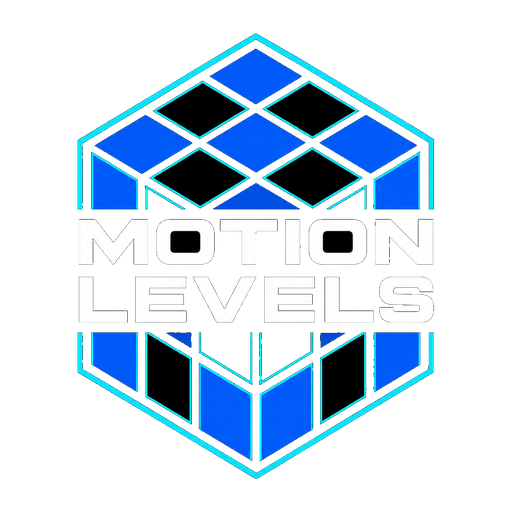
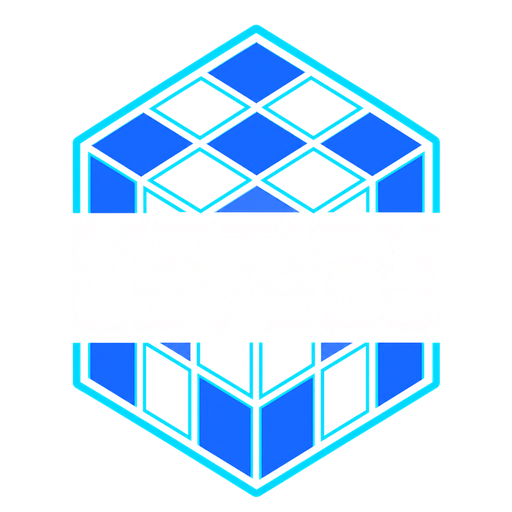
Update Motion Levels branding across platform apps

Changed region(s): [[0.125, 0.0312, 0.875, 0.5], [0.125, 0.4688, 0.875, 0.9688], [0.125, 0.4688, 0.1875, 0.625]]

diff --git a/apps/player-display/src/styles.css b/apps/player-display/src/styles.css
@@ -144,7 +144,7 @@ body {
 .screensaver-logo {
   width: min(68vw, 82vh, 900px);
   aspect-ratio: 1;
-  background: url("/motion-levels-icon.png?v=20260611") center / contain no-repeat;
+  background: url("/motion-levels-icon.png?v=20260713") center / contain no-repeat;
   filter:
     drop-shadow(0 28px 38px rgba(0, 0, 0, 0.52))
     drop-shadow(0 0 46px rgba(54, 217, 255, 0.34));
@@ -199,7 +199,7 @@ body {
   width: clamp(38px, 3.2vw, 72px);
   height: clamp(38px, 3.2vw, 72px);
   flex: 0 0 auto;
-  background: url("/motion-levels-icon.png?v=20260611") center / contain no-repeat;
+  background: url("/motion-levels-icon.png?v=20260713") center / contain no-repeat;
   filter: drop-shadow(0 12px 18px rgba(0, 0, 0, 0.45)) drop-shadow(0 0 18px rgba(54, 217, 255, 0.25));
 }
 
@@ -690,7 +690,7 @@ body {
   width: 44px;
   height: 44px;
   flex: 0 0 auto;
-  background: url("/motion-levels-icon.png?v=20260611") center / contain no-repeat;
+  background: url("/motion-levels-icon.png?v=20260713") center / contain no-repeat;
   filter:
     drop-shadow(0 8px 14px rgba(0, 0, 0, 0.48))
     drop-shadow(0 0 14px rgba(54, 217, 255, 0.34));

diff --git a/apps/player-menu/src/styles.css b/apps/player-menu/src/styles.css
@@ -197,7 +197,7 @@ body {
   height: 96px;
   padding: 0;
   border: 0;
-  background: url("/motion-levels-icon.png?v=20260611") center / contain no-repeat;
+  background: url("/motion-levels-icon.png?v=20260713") center / contain no-repeat;
   filter: drop-shadow(0 18px 28px rgba(0, 0, 0, 0.48)) drop-shadow(0 0 24px rgba(54, 217, 255, 0.24));
   cursor: pointer;
 }
@@ -367,7 +367,7 @@ body {
   height: 54px;
   padding: 0;
   border: 0;
-  background: url("/motion-levels-icon.png?v=20260611") center / contain no-repeat;
+  background: url("/motion-levels-icon.png?v=20260713") center / contain no-repeat;
   filter:
     drop-shadow(0 12px 18px rgba(0, 0, 0, 0.48))
     drop-shadow(0 0 18px rgba(54, 217, 255, 0.24));

diff --git a/apps/player-menu/index.html b/apps/player-menu/index.html
@@ -4,8 +4,8 @@
     <meta charset="UTF-8" />
     <meta name="viewport" content="width=device-width, initial-scale=1, viewport-fit=cover" />
     <meta name="theme-color" content="#05080d" />
-    <link rel="icon" href="/motion-levels-icon.png?v=20260611" type="image/png" />
-    <link rel="apple-touch-icon" href="/motion-levels-icon.png?v=20260611" />
+    <link rel="icon" href="/favicon.ico?v=20260713" sizes="any" />
+    <link rel="apple-touch-icon" href="/apple-icon.png?v=20260713" />
     <title>Motion Levels Player Menu</title>
   </head>
   <body>

diff --git a/apps/player-display/index.html b/apps/player-display/index.html
@@ -4,8 +4,8 @@
     <meta charset="UTF-8" />
     <meta name="viewport" content="width=device-width, initial-scale=1.0" />
     <meta name="theme-color" content="#05070d" />
-    <link rel="icon" href="/motion-levels-icon.png?v=20260611" type="image/png" />
-    <link rel="apple-touch-icon" href="/motion-levels-icon.png?v=20260611" />
+    <link rel="icon" href="/favicon.ico?v=20260713" sizes="any" />
+    <link rel="apple-touch-icon" href="/apple-icon.png?v=20260713" />
     <title>Motion Levels · Pantalla de jugadores</title>
   </head>
   <body>
